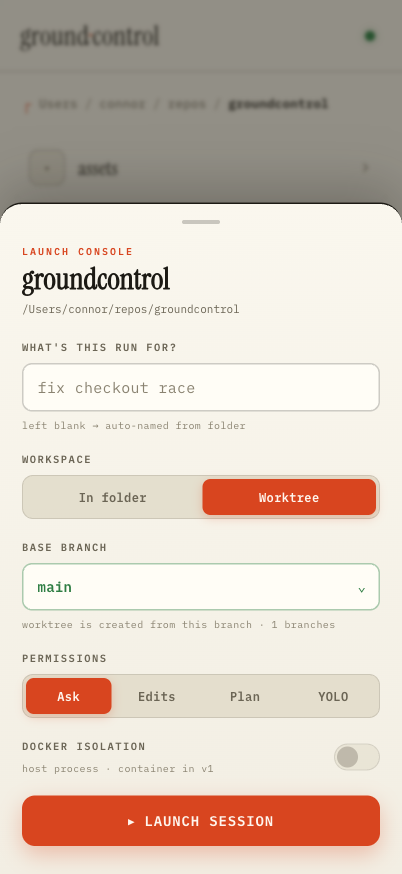
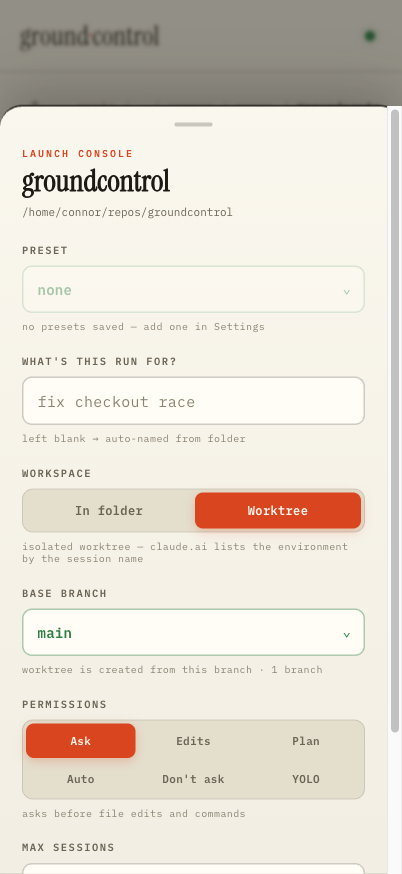
docs(assets): recapture launch and sessions screenshots on the live UI
Both still showed the pre-#9 interface. Recaptured at the same 402x874
against a live tower: launch.png now shows the preset row, worktree
toggle, base branch, and all six permission modes; sessions.png shows a
live environment card — "1 of 32 sessions", working pill, env id and
Claude session ids, the environment's session row, the open-in-claude.ai
CTA, and the pairing QR. Alt text updated to match what is in frame.

diff --git a/README.md b/README.md
@@ -30,11 +30,11 @@
 <sub><strong>1. Browse</strong> — tap a folder, see its branch</sub>
 </td>
 <td align="center" width="33%">
-<img src="assets/launch.png" width="220" alt="Launch console — worktree toggle, base branch picker, permission modes"><br>
-<sub><strong>2. Launch</strong> — worktree, base branch, permission mode</sub>
+<img src="assets/launch.png" width="220" alt="Launch console — preset picker, worktree toggle, base branch, six permission modes"><br>
+<sub><strong>2. Launch</strong> — preset, worktree, base branch, permission mode</sub>
 </td>
 <td align="center" width="33%">
-<img src="assets/sessions.png" width="220" alt="Environment card — live status, pairing QR, kill switch"><br>
+<img src="assets/sessions.png" width="220" alt="Environment card — live session count, env id and Claude session, pairing QR"><br>
 <sub><strong>3. Scan</strong> — QR pairs you straight into the Claude app</sub>
 </td>
 </tr>